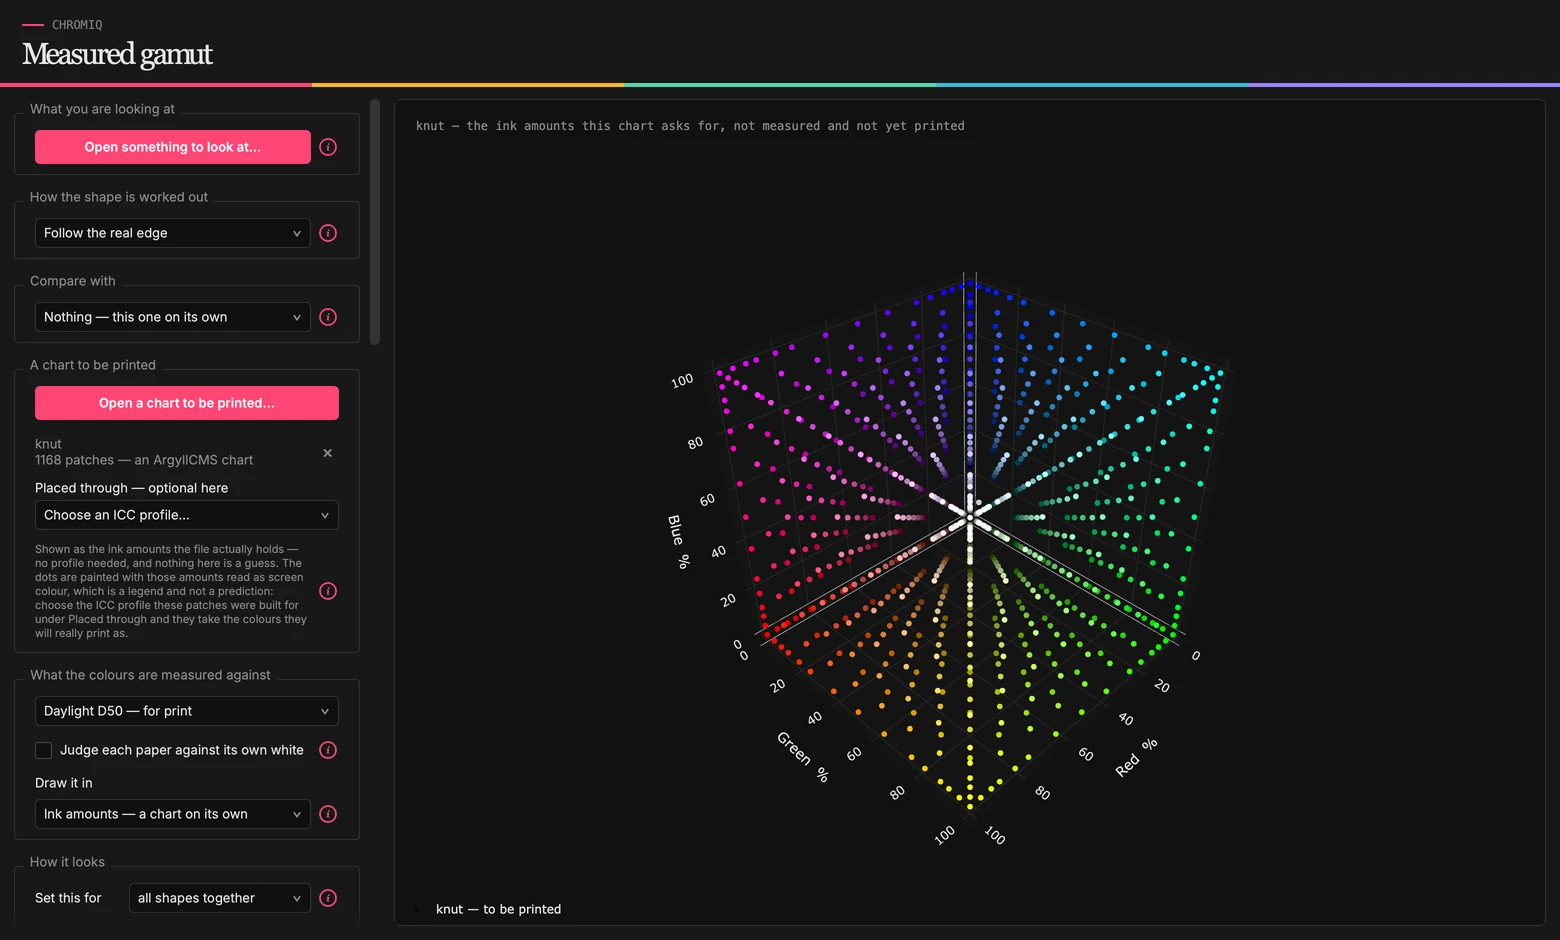
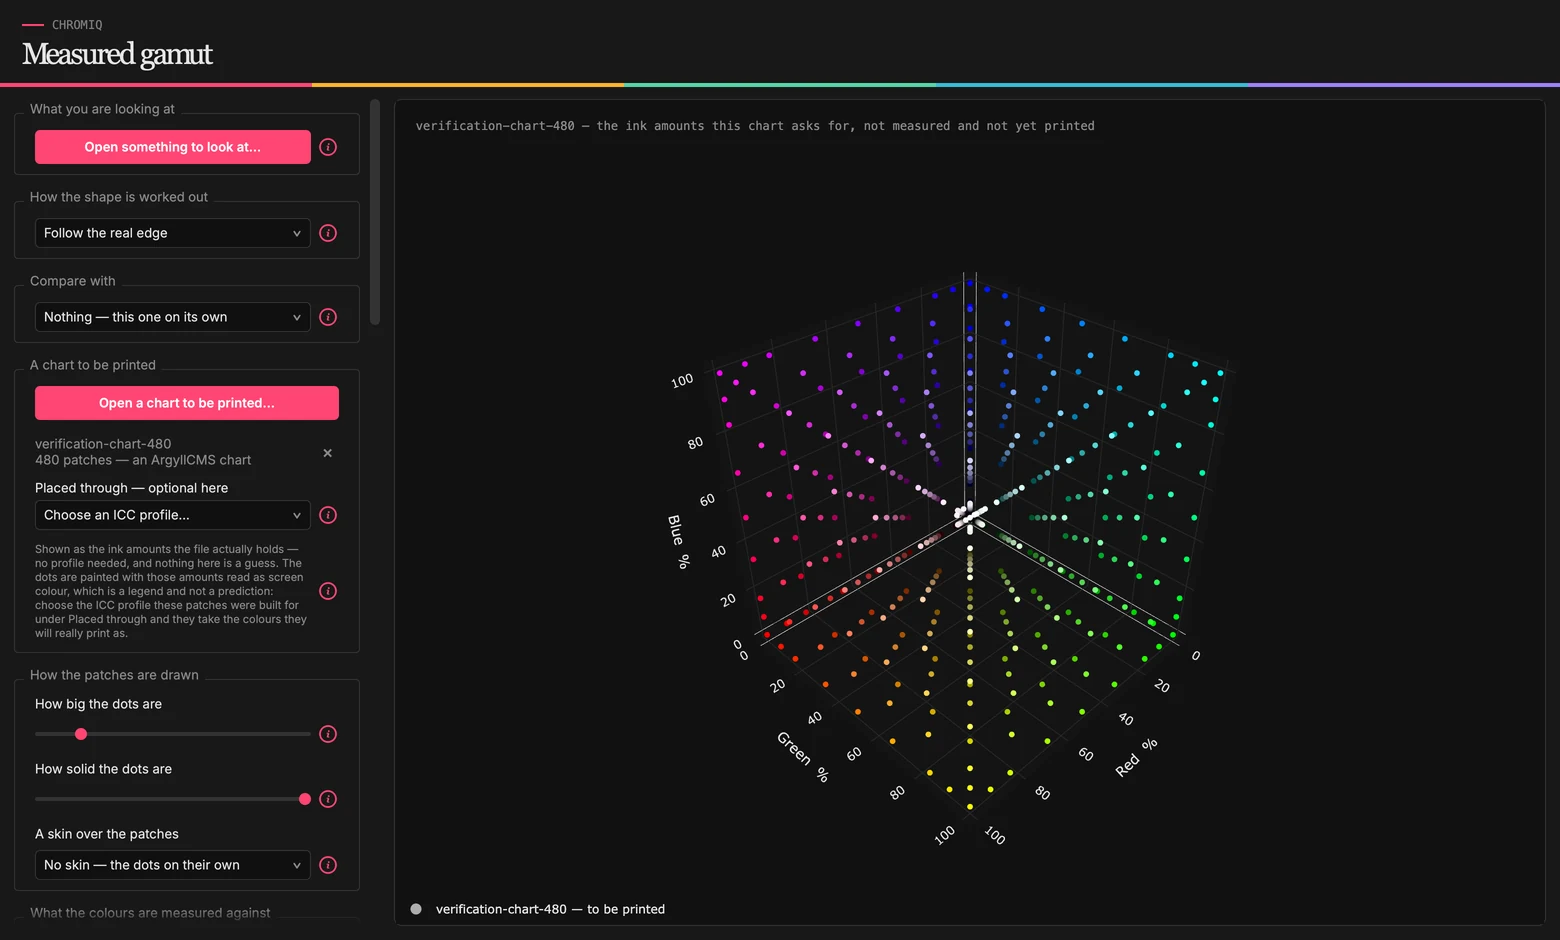
Six chart loops, a page of their own, and no personal name left in any of it
The showcase loops and one screenshot were recorded from a chart in a
project named after a real person, so the name rode along in the caption
and the legend of a picture meant for GitHub. Both re-made from the demo
chart, and the two driver scripts no longer hard-code a path under
somebody's home folder — a big chart is named by an environment variable
instead. A stray .pyc that had been committed is untracked and ignored.

Page 7 is six loops of a chart before anything has been printed, all
WebP so they start by themselves. The pair at the top is the point: the
same patches with and without a profile, not one dot moved.

The README link now sits between Previous and Next on all seven pages.

diff --git a/scripts/drive_ink_amounts.py b/scripts/drive_ink_amounts.py
@@ -34,7 +34,10 @@ from PyQt6.QtWidgets import QApplication                     # noqa: E402
 
 DEMO = pathlib.Path(os.environ.get(
     "GAMUTVIEW_DEMO", str(HERE.parent.parent / "demo")))
-HOME_CHARTS = pathlib.Path.home() / "ChromIQ"
+#: A bigger chart to fall back on, named by an environment
+#: variable rather than a path — a path here would publish
+#: whatever somebody happened to call their own project.
+BIG_CHART = pathlib.Path(os.environ.get("GAMUTVIEW_BIG_CHART", ""))
 
 results: list = []
 
@@ -74,7 +77,7 @@ def main() -> int:
         pump(2.5)
 
     chart_480 = DEMO / "verification-chart-480.ti1"
-    chart_big = HOME_CHARTS / "knut" / "knut.ti1"
+    chart_big = BIG_CHART
     glossy_icc = DEMO / "Glossy-paper.icc"
     glossy_ti3 = DEMO / "Glossy-paper.ti3"
     matte_ti3 = DEMO / "Matte-paper.ti3"
@@ -203,8 +206,8 @@ def main() -> int:
 
     # ----------------------------------------------------------------- 6
     # A four-ink chart cannot go on three axes, and says so.
-    cmyk = next(iter(sorted(HOME_CHARTS.glob("cmyk/*.ti1"))), None)
-    if cmyk is not None and cmyk.is_file():
+    cmyk = pathlib.Path(os.environ.get("GAMUTVIEW_CMYK_CHART", ""))
+    if cmyk.name and cmyk.is_file():
         w._close_chart()
         pump(1)
         w._open_chart_file(cmyk)

diff --git a/scripts/drive_all_combinations.py b/scripts/drive_all_combinations.py
@@ -38,7 +38,7 @@ import numpy as np                                          # noqa: E402
 
 DEMO = pathlib.Path(os.environ.get(
     "GAMUTVIEW_DEMO", str(HERE.parent.parent / "demo")))
-HOME = pathlib.Path.home() / "ChromIQ"
+BIG_CHART = pathlib.Path(os.environ.get("GAMUTVIEW_BIG_CHART", ""))
 
 failures: list = []
 checked = 0
@@ -73,7 +73,7 @@ def phase_a():
 
     chart_file = DEMO / "verification-chart-480.ti1"
     if not chart_file.is_file():
-        chart_file = HOME / "knut" / "knut.ti1"
+        chart_file = BIG_CHART
     c = cm.read_chart(chart_file)
     device = cm.device_positions(c)
     placed = cm.through_profile(c, DEMO / "Glossy-paper.icc")

diff --git a/docs/motion/page-7.md b/docs/motion/page-7.md
@@ -1,0 +1,143 @@
+# It moves — a chart, before anything has been printed
+
+*Page 7 of 7*
+
+---
+
+Everything on this page is a **chart**: a list of ink amounts waiting to be
+printed, opened with **Open a chart to be printed…**. Nothing here has been
+measured. Every loop was made by the application itself — **Turn it by
+itself**, then **Save this view as a picture… → A moving picture** — and each
+caption says exactly which settings are behind it.
+
+---
+
+## A patch set on its own, with nothing else at all.
+
+<p align="center"><img src="../screenshots/n1-a-chart-on-its-own.webp" width="880" alt="A 480-patch chart turning in a cube whose axes are red, green and blue ink amounts, with no profile and no measurement open"></p>
+
+**A patch set on its own, with nothing else at all.**
+
+No profile. No measurement. No printer. The three axes are the printer's own
+controls — how much of each ink, 0 to 100 — which is exactly what the file
+contains, so the numbers on the axes are the numbers in the file and nothing
+here is predicted.
+
+What it answers is a question about **the chart**: how evenly it samples the
+range the printer can be asked for, where it crowds, and where it leaves a
+hole. The dots are painted with the ink amounts read as screen colour, which
+is a legend and not a prediction — the panel says so beside them.
+
+**How:** **Draw it in** → *Ink amounts — a chart on its own*. Left and right
+**all the way round** at speed 8, up and down *back and forth* 18° at speed 5.
+Eight seconds, 25 a second.
+
+---
+
+## The same patches, with a profile asked what colour they will be.
+
+<p align="center"><img src="../screenshots/n2-painted-through-a-profile.webp" width="880" alt="The same chart in the same positions, its dots now carrying the muted colours a glossy paper will actually print"></p>
+
+**The same patches, with a profile asked what colour they will be.**
+
+Hold this against the one above: **not a single dot has moved.** The ink
+amounts *are* the axes, so a profile cannot move anything — it is the only
+thing that can say what colour each amount will come out as, so it paints
+them and nothing else.
+
+The colours are noticeably quieter than the loop above, and that is the whole
+point of the pair. The bright cube is what the numbers *look like on a screen*;
+this is what the paper will actually give you.
+
+**How:** as above, plus **Placed through** → the profile the chart was built
+for.
+
+---
+
+## What a different paper cannot reach — and where it lives.
+
+<p align="center"><img src="../screenshots/n3-what-the-paper-cannot-reach.webp" width="880" alt="The same chart with a grey mesh skin over the patches a matte paper can reach and the rest picked out in red all around it"></p>
+
+**What a different paper cannot reach — and where it lives.**
+
+The grey skin covers the patches the matte paper **can** reach. Everything in
+red is out of its reach — and the shape of the loss is the finding: the losses
+are the entire **outer shell** of the ink range, with the interior surviving
+intact. In CIELAB those same 160 patches are scattered through the shape and
+that pattern cannot be seen at all.
+
+The counts are identical in both views, because the judging is about colour and
+the space is only how it is drawn.
+
+**How:** the chart, its profile under **Placed through**, and the matte paper's
+measurement open. **A skin over the patches** → *Mesh*, grey, and the
+out-of-reach dots turned down to 60% so the skin reads through them.
+
+---
+
+## The chart's own reach, as a solid.
+
+<p align="center"><img src="../screenshots/n4-the-charts-own-reach.webp" width="880" alt="The chart drawn as a solid skin in the colours of its own patches, with the dots turned right down"></p>
+
+**The chart's own reach, as a solid.**
+
+The same skin with the dots turned almost off and the surface taking the
+colours of the patches it is stretched over. This is the chart's reach as a
+shape rather than as a cloud.
+
+**It is not a gamut, and the window never lets it become one.** A chart only
+samples wherever its author put a patch: on these files the skin comes out 8%
+smaller than the paper's own measured gamut. So it never joins **How much
+colour it holds**, never joins a comparison, and is named *a skin over the
+patches* in the key.
+
+**How:** **A skin over the patches** → *Solid*, *The colours of the patches*,
+70% solid. **How big the dots are** at its lowest and 25% solid.
+
+---
+
+## The same chart and the same paper, in CIELAB.
+
+<p align="center"><img src="../screenshots/n5-the-same-thing-in-cielab.webp" width="880" alt="The chart's patches inside the wire cage of the matte paper's measured gamut, with the out-of-reach ones in red"></p>
+
+**The same chart and the same paper, in CIELAB.**
+
+Everything comes back the moment a colour space is chosen: the paper is drawn
+again as a shape, and the patches sit where the profile says they will land.
+
+Worth watching next to the loop three above. The **numbers are identical** —
+222 inside, 18 on the edge, 240 outside — and the **picture is not**. Here the
+red is spread all round the surface; there it was one clean shell. Two true
+pictures of one measurement, answering different questions.
+
+**How:** **Draw it in** → *CIELAB*, first shape → *outline only*.
+
+---
+
+## Light, and in the accent colour.
+
+<p align="center"><img src="../screenshots/n6-light-and-in-the-accent.webp" width="880" alt="The same chart on a light background with its skin in the window's accent colour, swinging gently"></p>
+
+**Light, and in the accent colour.**
+
+None of this has to be dark. The whole window and everything it saves follow
+**Light** under **This window**, and a skin can take the accent colour instead
+of grey or the patches' own — which is the one to use when the shape is the
+subject and the dots are only there for texture.
+
+**How:** **Light**, **A skin over the patches** → *Solid*, *The accent colour*,
+45% solid. Left and right *back and forth* 80° at speed 7, up and down *back
+and forth* 24° at speed 5.
+
+---
+
+**One more thing, and it is not obvious:** the names under any of these
+pictures are switches. Click one to hide that shape, click again to bring it
+back, double-click to show it on its own. Nothing is closed and no figure
+changes — it is a way of looking.
+
+---
+
+[← Previous](page-6.md) · [The README](../../README.md)
+
+*[1](../MOTION.md) · [2](page-2.md) · [3](page-3.md) · [4](page-4.md) · [5](page-5.md) · [6](page-6.md) · **7***

diff --git a/CHANGELOG.md b/CHANGELOG.md
@@ -49,6 +49,18 @@
   against them. So does the white point: the dots are painted through a
   profile and counted against a paper, and both read colour against a white.
 
+### 🎞 Six new loops, and a page of their own
+
+`docs/motion/page-7.md` is all charts — patch sets before anything has been
+printed. A chart alone with no profile at all, the same patches with a profile
+asked what colour they will be (not one dot moves), the outer shell a matte
+paper cannot reach, the chart's own reach as a solid, the same chart and paper
+in CIELAB for the contrast, and one in light mode with the skin in the accent
+colour. All WebP, so they start on their own with nothing to click.
+
+The README link now sits between Previous and Next on every one of the seven
+pages; page 5 had it after Next, the only one out of order.
+
 ### 🩹 Two faults found by crossing the options
 
 Every option had its own test and they all passed. Crossing 6,912 combinations

diff --git a/docs/MOTION.md b/docs/MOTION.md
@@ -6,7 +6,8 @@ Nothing was recorded another way, and every setting behind them is one you
 have — each caption says exactly which.
 
 Two to a page, so each one can be full size and full quality rather than
-squeezed to fit a dozen onto one. **Depth is genuinely hard to judge on a flat
+squeezed to fit a dozen onto one. Page 7 is all charts — patch sets before
+anything has been printed. **Depth is genuinely hard to judge on a flat
 screen**: a dent in the deep blues and a shadow look exactly alike in a still
 picture, and half a turn settles it in a second.
 
@@ -16,7 +17,7 @@ for. That is what stops a loop jumping every time it comes round.
 
 ---
 
-*Page 1 of 6*
+*Page 1 of 7*
 
 ---
 

diff --git a/docs/motion/page-3.md b/docs/motion/page-3.md
@@ -1,6 +1,6 @@
 # It moves — nothing around it, and one paper inside another
 
-*Page 3 of 6*
+*Page 3 of 7*
 
 ---
 
@@ -32,4 +32,4 @@ Glossy holds more colour than matte, so drawing both as solids means the bigger 
 
 [← Previous](page-2.md) · [The README](../../README.md) · [Next →](page-4.md)
 
-*[1](../MOTION.md) · [2](page-2.md) · **3** · [4](page-4.md) · [5](page-5.md) · [6](page-6.md)*
+*[1](../MOTION.md) · [2](page-2.md) · **3** · [4](page-4.md) · [5](page-5.md) · [6](page-6.md) · [7](page-7.md)*

diff --git a/docs/motion/page-2.md b/docs/motion/page-2.md
@@ -1,6 +1,6 @@
 # It moves — over the top, and the greys hiding inside
 
-*Page 2 of 6*
+*Page 2 of 7*
 
 ---
 
@@ -32,4 +32,4 @@ The shell is turned down to about a third solid, because at full strength it is 
 
 [← Previous](../MOTION.md) · [The README](../../README.md) · [Next →](page-3.md)
 
-*[1](../MOTION.md) · **2** · [3](page-3.md) · [4](page-4.md) · [5](page-5.md) · [6](page-6.md)*
+*[1](../MOTION.md) · **2** · [3](page-3.md) · [4](page-4.md) · [5](page-5.md) · [6](page-6.md) · [7](page-7.md)*

diff --git a/docs/motion/page-4.md b/docs/motion/page-4.md
@@ -1,6 +1,6 @@
 # It moves — two rooms, and dressed for a white page
 
-*Page 4 of 6*
+*Page 4 of 7*
 
 ---
 
@@ -30,4 +30,4 @@ Nothing about the reading changed — only what is behind it, what the three wal
 
 [← Previous](page-3.md) · [The README](../../README.md) · [Next →](page-5.md)
 
-*[1](../MOTION.md) · [2](page-2.md) · [3](page-3.md) · **4** · [5](page-5.md) · [6](page-6.md)*
+*[1](../MOTION.md) · [2](page-2.md) · [3](page-3.md) · **4** · [5](page-5.md) · [6](page-6.md) · [7](page-7.md)*

diff --git a/README.md b/README.md
@@ -17,7 +17,7 @@ printer?
 
 <p align="center"><sub>A real measured gamut, turning. Made by the
 application itself — <b>Turn it by itself</b>, then <b>Save this view as a
-picture…</b>. <a href="docs/MOTION.md">Twelve more, two to a page →</a></sub></p>
+picture…</b>. <a href="docs/MOTION.md">Seventeen more, two to a page →</a></sub></p>
 
 <p align="center">
   <a href="https://ko-fi.com/itsab1989"><img src="https://ko-fi.com/img/githubbutton_sm.svg" alt="Support this on Ko-fi" height="36"></a>

diff --git a/docs/motion/page-5.md b/docs/motion/page-5.md
@@ -1,6 +1,6 @@
 # It moves — and the same thing as a film
 
-*Page 5 of 6*
+*Page 5 of 7*
 
 ---
 
@@ -41,4 +41,4 @@ The red is where its surface passes the paper. The spikes are what a camera catc
 
 [← Previous](page-4.md) · [The README](../../README.md) · [Next →](page-6.md)
 
-*[1](../MOTION.md) · [2](page-2.md) · [3](page-3.md) · [4](page-4.md) · **5** · [6](page-6.md)*
+*[1](../MOTION.md) · [2](page-2.md) · [3](page-3.md) · [4](page-4.md) · **5** · [6](page-6.md) · [7](page-7.md)*

diff --git a/docs/motion/page-6.md b/docs/motion/page-6.md
@@ -1,6 +1,6 @@
 # It moves — the chart you have not printed yet
 
-*Page 6 of 6*
+*Page 6 of 7*
 
 ---
 
@@ -34,6 +34,6 @@ Nothing changed between this loop and the one above except which measurement is 
 
 ---
 
-[← Previous](page-5.md) · [The README](../../README.md)
+[← Previous](page-5.md) · [The README](../../README.md) · [Next →](page-7.md)
 
 *[1](../MOTION.md) · [2](page-2.md) · [3](page-3.md) · [4](page-4.md) · [5](page-5.md) · **6***
